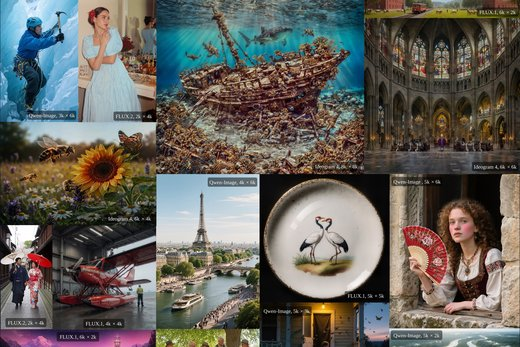
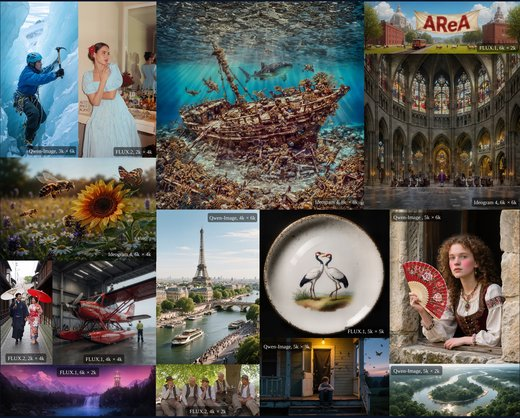
Fit AReA teaser video to thumbnail height instead of cropping
Claude-Session: https://claude.ai/code/session_01Bb6WUA5D1bVxUzsExBd3Gv

diff --git a/index.html b/index.html
@@ -47,7 +47,7 @@
       href="https://fonts.googleapis.com/css2?family=Cormorant+Garamond:ital,wght@0,500;0,600;1,500&family=IBM+Plex+Mono:ital,wght@0,400;0,500&family=Source+Sans+3:ital,wght@0,400;0,500;0,600;1,400&display=swap"
       rel="stylesheet"
     />
-    <link rel="stylesheet" href="styles.css?v=20261015a" />
+    <link rel="stylesheet" href="styles.css?v=20261015b" />
     <link rel="icon" href="/favicon.ico" sizes="48x48" />
     <link rel="icon" type="image/png" sizes="32x32" href="/favicon-32.png" />
     <link rel="icon" type="image/png" sizes="16x16" href="/favicon-16.png" />

diff --git a/styles.css b/styles.css
@@ -652,6 +652,11 @@ h2:hover::before {
   object-fit: cover;
 }
 
+/* Show teaser videos whole: fit to the thumbnail's height rather than cropping. */
+.pub-thumb video {
+  object-fit: contain;
+}
+
 .pub-thumb:hover {
   transform: translateY(-2px);
   box-shadow: 0.25rem 0.35rem 0 var(--photo-shadow);
